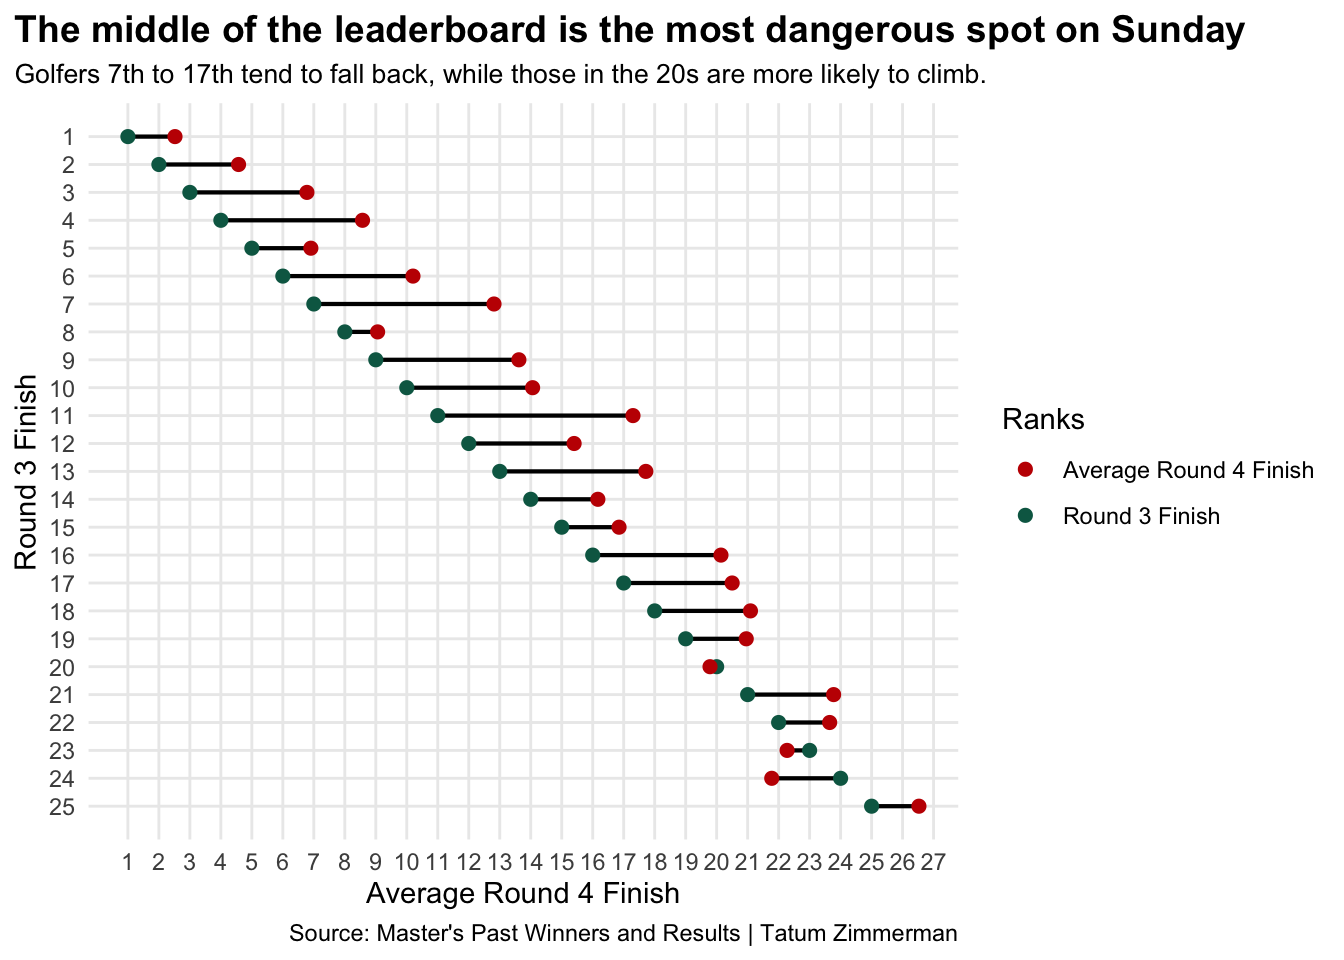
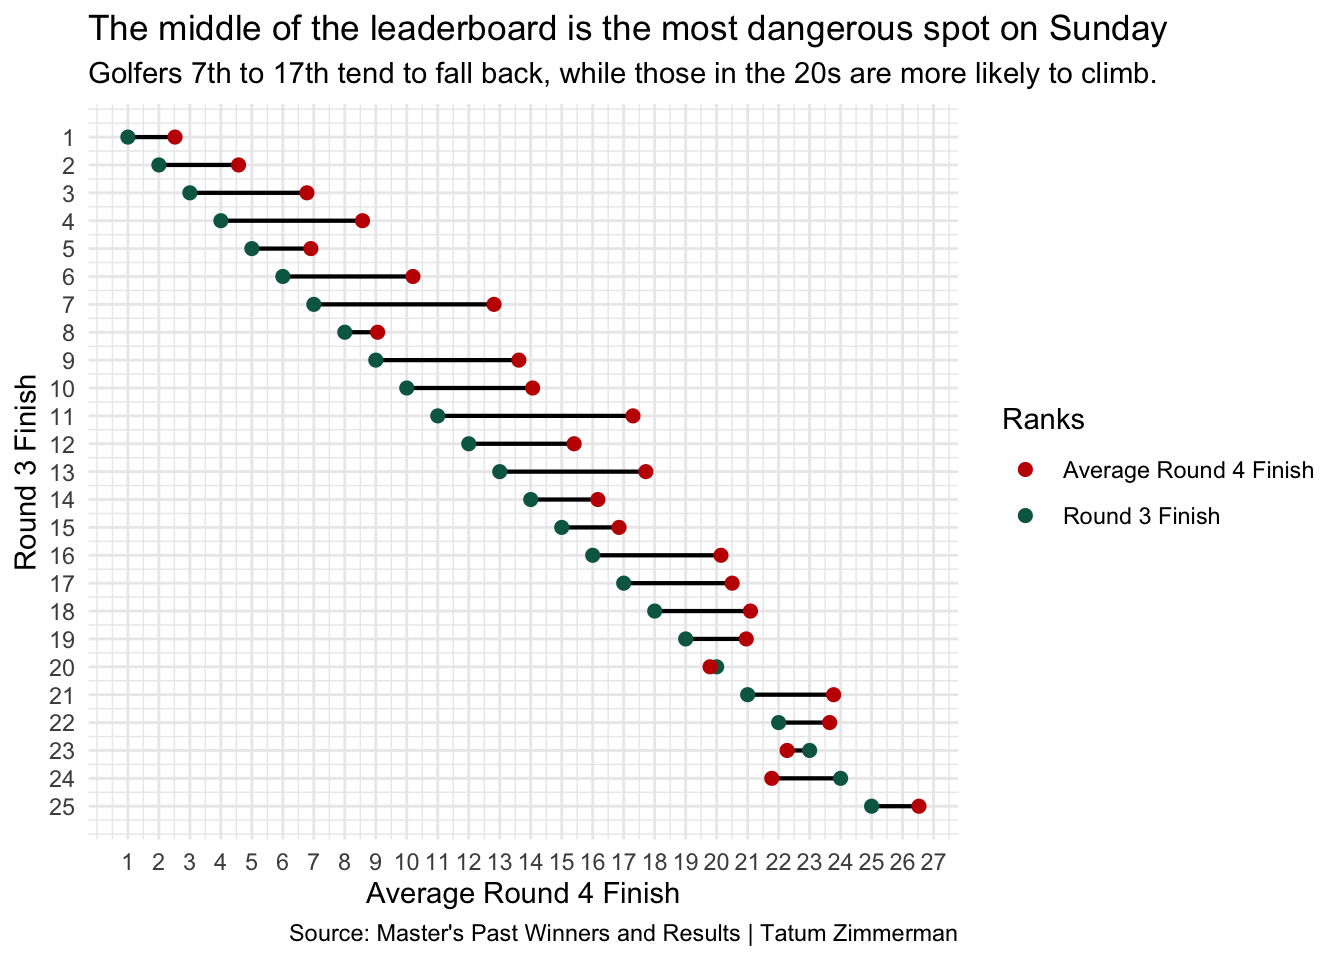
Is the Masters already decided before Sunday begins

diff --git a/posts/is-the-masters-already-decided-before-sunday-begins/index.html b/posts/is-the-masters-already-decided-before-sunday-begins/index.html
@@ -195,10 +195,10 @@ pre > code.sourceCode > span > a:first-child::before { text-decoration: underlin
 
 
 
-<p>At a historic course like Augusta National, every part of the course matters, with the weekend building to the iconic Masters Sunday.</p>
-<p>But is Sunday really when the tournament is won?</p>
+<p>Is the Masters already decided before Sunday begins?</p>
+<p>At a historic course like Augusta National, every part of the course matters, with the weekend building to the iconic Masters Sunday. It is often viewed as the most dramatic day in golf, where the pressure rises, and the leaderboard starts to take its shape. But is Sunday really when the tournament is won?</p>
 <p>Looking at the Masters winners over the past 20 years suggests something different. Most champions don’t come from behind to secure a major win. Instead, they stay near the top of the leaderboard throughout the week and enter the final round with a solid chance to win.</p>
-<p>Most Masters champions don’t rely on one dominant round. They steadily climb the leaderboard across the tournament</p>
+<p>Most Masters champions don’t rely on one dominant round. They steadily climb the leaderboard across the tournament.</p>
 <div class="cell">
 <details class="code-fold">
 <summary>Code</summary>
@@ -414,7 +414,7 @@ pre > code.sourceCode > span > a:first-child::before { text-decoration: underlin
 </div>
 </div>
 </div>
-<p>Across recent tournaments, the average winner builds their advantage in the first three rounds. There are some expectations, such as Danny Willett’s Sunday push in 2016 and Trevor Immelman winning in 2008 despite losing strokes on Sunday.</p>
+<p>Across recent tournaments, the average winner builds their advantage in the first three rounds. There are some expectations, such as Danny Willett’s Sunday push in 2016 and Trevor Immelman winning in 2008 despite losing strokes on Sunday. The graph shows the average champion moves up consistently and doesn’t go up and down.</p>
 <p>Where you stand on Saturday night matters, a lot.</p>
 <div class="cell">
 <details class="code-fold">
@@ -472,12 +472,7 @@ pre > code.sourceCode > span > a:first-child::before { text-decoration: underlin
 <span id="cb2-51"><a href="#cb2-51" aria-hidden="true" tabindex="-1"></a>  <span class="fu">scale_x_continuous</span>(<span class="at">breaks=</span><span class="fu">c</span>(<span class="dv">1</span>,<span class="dv">2</span>,<span class="dv">3</span>,<span class="dv">4</span>,<span class="dv">5</span>,<span class="dv">6</span>,<span class="dv">7</span>,<span class="dv">8</span>,<span class="dv">9</span>,<span class="dv">10</span>,<span class="dv">11</span>,<span class="dv">12</span>,<span class="dv">13</span>,<span class="dv">14</span>,<span class="dv">15</span>,<span class="dv">16</span>,<span class="dv">17</span>,<span class="dv">18</span>,<span class="dv">19</span>,<span class="dv">20</span>,<span class="dv">21</span>,<span class="dv">22</span>,<span class="dv">23</span>,<span class="dv">24</span>,<span class="dv">25</span>, <span class="dv">26</span>, <span class="dv">27</span>)) <span class="sc">+</span> </span>
 <span id="cb2-52"><a href="#cb2-52" aria-hidden="true" tabindex="-1"></a>  <span class="fu">labs</span>(<span class="at">title=</span><span class="st">"The middle of the leaderboard is the most dangerous spot on Sunday"</span>, <span class="at">subtitle=</span><span class="st">"Golfers 7th to 17th tend to fall back, while those in the 20s are more likely to climb."</span>, <span class="at">x=</span><span class="st">"Average Round 4 Finish"</span>, </span>
 <span id="cb2-53"><a href="#cb2-53" aria-hidden="true" tabindex="-1"></a>    <span class="at">y=</span><span class="st">"Round 3 Finish"</span>, <span class="at">caption=</span><span class="st">"Source: Master's Past Winners and Results | Tatum Zimmerman"</span>  ) <span class="sc">+</span></span>
-<span id="cb2-54"><a href="#cb2-54" aria-hidden="true" tabindex="-1"></a>  <span class="fu">theme_minimal</span>() <span class="sc">+</span> </span>
-<span id="cb2-55"><a href="#cb2-55" aria-hidden="true" tabindex="-1"></a>  <span class="fu">theme</span>(</span>
-<span id="cb2-56"><a href="#cb2-56" aria-hidden="true" tabindex="-1"></a>    <span class="at">plot.title =</span> <span class="fu">element_text</span>(<span class="at">size=</span><span class="dv">14</span>, <span class="at">face =</span><span class="st">"bold"</span>),</span>
-<span id="cb2-57"><a href="#cb2-57" aria-hidden="true" tabindex="-1"></a>    <span class="at">plot.subtitle =</span> <span class="fu">element_text</span>(<span class="at">size =</span><span class="dv">10</span>),</span>
-<span id="cb2-58"><a href="#cb2-58" aria-hidden="true" tabindex="-1"></a>    <span class="at">panel.grid.minor =</span> <span class="fu">element_blank</span>(),</span>
-<span id="cb2-59"><a href="#cb2-59" aria-hidden="true" tabindex="-1"></a>    <span class="at">plot.title.position =</span> <span class="st">"plot"</span>)</span></code></pre></div><button title="Copy to Clipboard" class="code-copy-button"><i class="bi"></i></button></div>
+<span id="cb2-54"><a href="#cb2-54" aria-hidden="true" tabindex="-1"></a>  <span class="fu">theme_minimal</span>() </span></code></pre></div><button title="Copy to Clipboard" class="code-copy-button"><i class="bi"></i></button></div>
 </details>
 <div class="cell-output-display">
 <div>
@@ -565,8 +560,8 @@ pre > code.sourceCode > span > a:first-child::before { text-decoration: underlin
 </div>
 </div>
 </div>
-<p>Only a handful of golfers who led after Round 3 significantly dropped on the leaderboard in the final round. While collapses like Rory McIlroy’s in 2011 stand out in recent memory, they are exceptions to the rule. More often than not, the Sunday leader turns a lead into a green jacket.</p>
-<p>At Augusta National Golf Club, the tournament is rarely won in a single day. It is built over the course of the week.</p>
+<p>Only a handful of golfers who led after Round 3 significantly dropped on the leaderboard in the final round. While collapses like Rory McIlroy’s in 2011 stand out, they are exceptions to the rule. More often than not, the Sunday leader turns a lead into a green jacket.</p>
+<p>At Augusta National Golf Club, the tournament is rarely won in a single day. It is built over the course of the week. By Sunday, the leaderboard is usually already set, and the winner is in position. The final round still brings pressure and memorable moments, but it more about protecting a lead than chasing one.</p>
 
 
 

diff --git a/index.html b/index.html
@@ -209,7 +209,7 @@ window.Quarto = {
 
 <div class="quarto-listing quarto-listing-container-default" id="listing-listing">
 <div class="list quarto-listing-default">
-<div class="quarto-post image-right" data-index="0" data-categories="bWFzdGVycyUyQ2dvbGYlMkNjaGFtcGlvbnM=" data-listing-date-sort="1775797200000" data-listing-file-modified-sort="1775838114777" data-listing-date-modified-sort="NaN" data-listing-reading-time-sort="12" data-listing-word-count-sort="2362">
+<div class="quarto-post image-right" data-index="0" data-categories="bWFzdGVycyUyQ2dvbGYlMkNjaGFtcGlvbnM=" data-listing-date-sort="1775797200000" data-listing-file-modified-sort="1775848540209" data-listing-date-modified-sort="NaN" data-listing-reading-time-sort="13" data-listing-word-count-sort="2410">
 <div class="thumbnail"><a href="./posts/is-the-masters-already-decided-before-sunday-begins/index.html" class="no-external">
 
 <img loading="lazy" src="./posts/is-the-masters-already-decided-before-sunday-begins/image.png" class="thumbnail-image">
@@ -229,7 +229,7 @@ window.Quarto = {
 
 </div>
 <div class="delink listing-description"><a href="./posts/is-the-masters-already-decided-before-sunday-begins/index.html" class="no-external">
-At a historic course like Augusta National, every part of the course matters, with the weekend building to the iconic Masters Sunday.
+Is the Masters already decided before Sunday begins?
 </a></div>
 </div>
 <div class="metadata">
